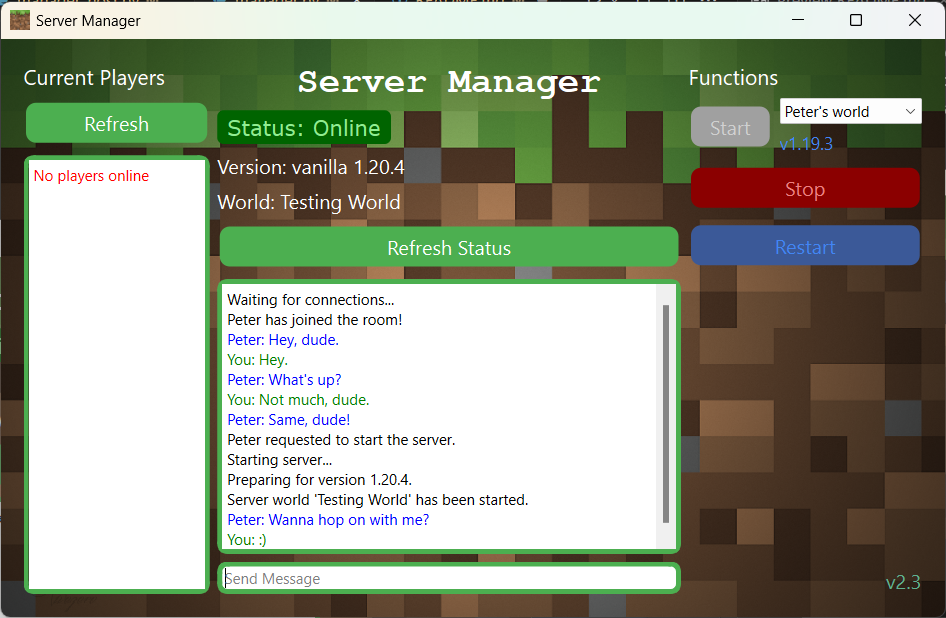
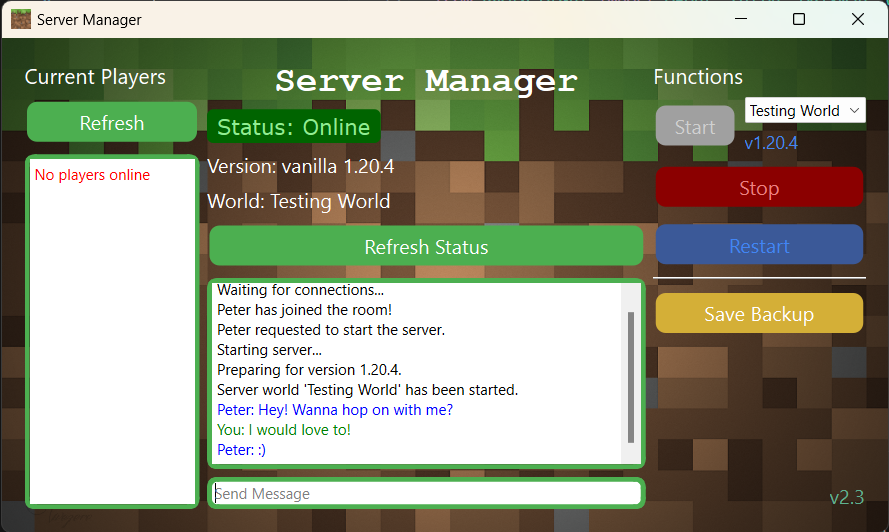
update readme

diff --git a/Styles/manager_host_style.css b/Styles/manager_host_style.css
@@ -81,8 +81,8 @@ QLabel {
 }
 
 #error {
-    color: black;
-    font-size: 30px;
+    color: white;
+    font-size: 25px;
     font-family: "Arial";
 }
 

diff --git a/manager.py b/manager.py
@@ -9,7 +9,7 @@ from PyQt6.QtWidgets import QApplication, QMainWindow, QVBoxLayout, QHBoxLayout,
 from PyQt6.QtGui import QFont, QIcon, QPixmap, QPainter, QPaintEvent
 from PyQt6.QtCore import Qt, QRect, QThread, pyqtSignal, QObject
 
-TESTING = False
+TESTING = True
 VERSION = "v2.3"
 
 if TESTING:

diff --git a/manager_host.py b/manager_host.py
@@ -18,7 +18,7 @@ from PyQt6.QtCore import Qt, QRect, pyqtSignal, QTimer, pyqtSlot
 import queries
 import file_funcs
 
-TESTING = False
+TESTING = True
 VERSION = "v2.3"
 
 if TESTING:

diff --git a/README.md b/README.md
@@ -14,7 +14,7 @@ Through this manager both the host and clients will have the ability to
 - Query the current status of the server including the version and the world name
 - Chat with others connected to the manager
   
-The host has the ability to choose what worlds he would like the clients to be able to choose from, including worlds running fabric mods.
+The host has the ability to choose what worlds he would like the clients to be able to choose from, including worlds running fabric mods. There is a button to quickly backup server worlds for convenience.
 
 ## Host Instructions
 If you are hosting the server on your computer, you must have your manager_host program running for others to be able to control the server. You will need a Java Runtime (JRE) in order to run the server, so download one if you do not already have it. Different versions require different minimum JRE versions.
